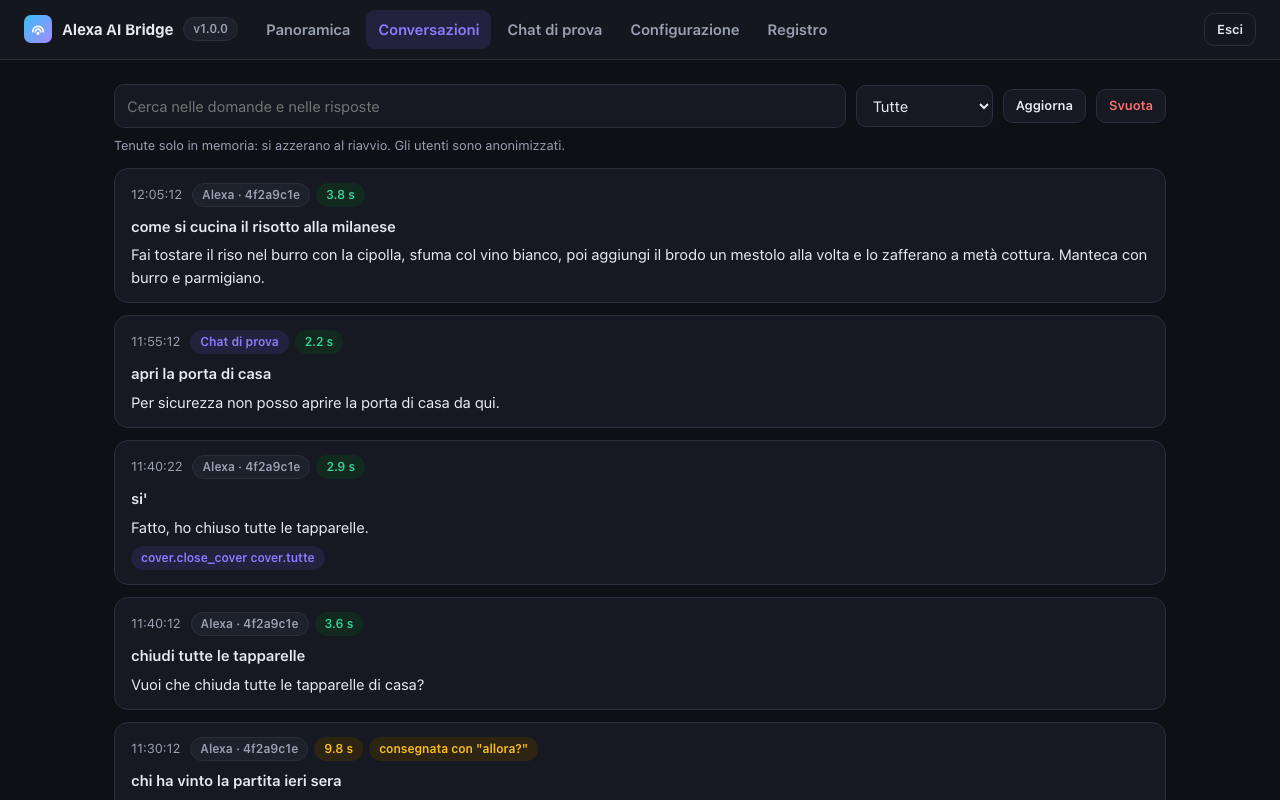
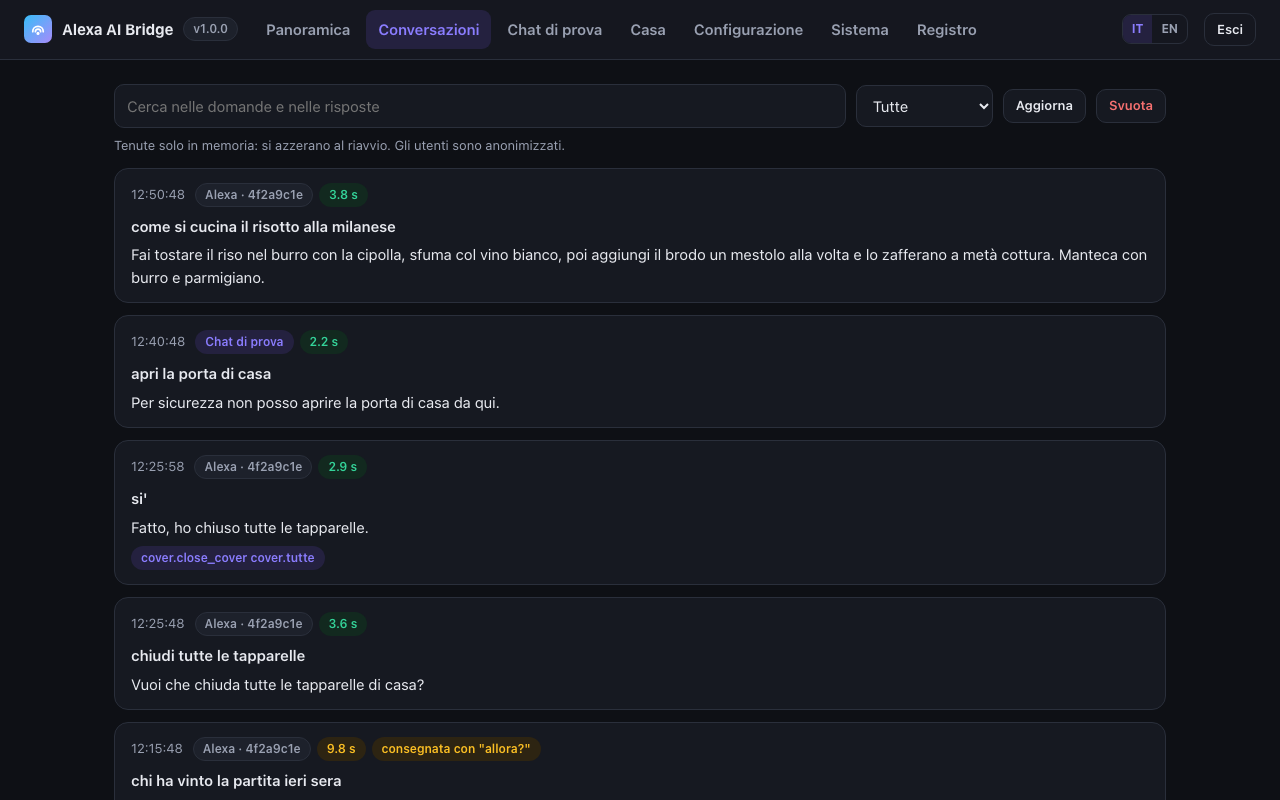
Document languages and the new admin tabs

diff --git a/README.md b/README.md
@@ -5,7 +5,7 @@
   <img alt="Python 3.11-3.15" src="https://img.shields.io/badge/python-3.11--3.15-38bdf8">
   <img alt="Docker" src="https://img.shields.io/badge/run%20with-Docker-38bdf8">
   <a href="https://github.com/LucaTomei/alexa-ai-bridge/actions/workflows/ci.yml"><img alt="CI" src="https://github.com/LucaTomei/alexa-ai-bridge/actions/workflows/ci.yml/badge.svg"></a>
-  <img alt="Alexa skill: it-IT" src="https://img.shields.io/badge/Alexa%20skill-it--IT-f0abfc">
+  <img alt="Alexa skill: it-IT and en-US" src="https://img.shields.io/badge/Alexa%20skill-it--IT%20%C2%B7%20en--US-f0abfc">
 </p>
 
 <p align="center">
@@ -33,8 +33,8 @@ can read and control your home through Home Assistant within strict limits that 
 > 🗣 *"Che tempo fa domani?"* — 🔊 *"Domani sole al mattino, nuvole dal pomeriggio e massima di 21 gradi."*<br>
 > 🗣 *"Accendi la luce dello stanzino."* — 🔊 *"Fatto."* — 🗣 *"Spegnila."* — 🔊 *"Spenta."*
 
-The skill in this repository speaks **Italian** (`it-IT`), but nothing in the design depends on the language: every
-spoken string and every sample utterance lives in two files you can translate.
+The assistant speaks **Italian or English** (`LANGUAGE=it` or `en`): both interaction models are included, and the
+admin page has an IT / EN switch too.
 
 ## Demo
 
@@ -70,9 +70,13 @@ These are real conversations in the Alexa developer console simulator, which sen
   - every request from Amazon is verified: signature, certificate chain, timestamp and skill ID;
   - locks, alarms, scripts and technical services can never be controlled;
   - multi-room actions need a spoken *yes*, and the **service** checks it, not the model.
-- 🖥 **Admin page**: status and one-click checks, conversation history, a test chat with simulated home actions,
-  and every setting editable from the browser. Off until you set a password; reachable from the server, your home
-  network or anywhere, as you choose ([details](docs/admin.md)).
+- 🖥 **Admin page**, in Italian or English:
+  - status and one-click checks, conversation history, a test chat with simulated home actions;
+  - the home's safety rules entity by entity: forbid a device or make it always ask for a spoken *yes*;
+  - every setting editable from the browser, checked before saving, applied with an automatic restart;
+  - the skill's endpoint and interaction models, update check, restart, password, backup;
+  - off until you set a password; reachable from the server, your home network or anywhere, as you choose
+    ([details](docs/admin.md)).
 
   <img src="docs/images/admin-overview.png" width="100%" alt="Admin page">
 - 🛟 **Degrades gracefully**: if a model has no tool support, rejects a parameter or returns its reasoning in
@@ -130,7 +134,8 @@ Full details: [docs/architecture.md](docs/architecture.md).
 
 1. **Create the skill** in the [Alexa developer console](https://developer.amazon.com/alexa/console/ask):
    - choose a *Custom* model with *Provision your own* hosting;
-   - paste [`skill/interaction-model.it-IT.json`](skill/interaction-model.it-IT.json) into the JSON editor;
+   - paste [`skill/interaction-model.it-IT.json`](skill/interaction-model.it-IT.json) (Italian) or
+     [`skill/interaction-model.en-US.json`](skill/interaction-model.en-US.json) (English) into the JSON editor;
    - click **Save**, then **Build**, and copy the **Skill ID**.
 2. **Run the service** on your host:
 
@@ -194,10 +199,12 @@ All fifteen, with their fixes, are in [docs/lessons-learned.md](docs/lessons-lea
 │   ├── llm.py              # Anthropic + OpenAI-compatible adapters, tool loop, graceful degradation
 │   ├── web_search.py       # native search (Claude) or SearXNG / Brave / Tavily (any model)
 │   ├── home_tools.py       # Home Assistant tools with allow-lists and server-side confirmation
-│   ├── admin.py · admin/   # admin page: status, history, test chat, settings, log
-│   └── impostazioni.py     # settings saved from the admin page
+│   ├── lingua.py           # every text of the assistant, in Italian and English
+│   ├── admin.py · admin/   # admin page: status, history, test chat, home rules, settings, system, log
+│   └── impostazioni.py     # settings saved from the admin page, validation
 ├── skill/
-│   └── interaction-model.it-IT.json   # paste into the Alexa console JSON editor
+│   ├── interaction-model.it-IT.json   # paste into the Alexa console JSON editor (Italian)
+│   └── interaction-model.en-US.json   # the same for English
 ├── deploy/                 # Caddyfile example, SearXNG settings
 ├── scripts/
 │   ├── e2e.py              # end-to-end check against a running deployment

diff --git a/docs/admin.md b/docs/admin.md
@@ -1,7 +1,8 @@
 # Admin page
 
 A web page to look after the bridge without a terminal: see whether everything works, read what was asked, try the
-assistant by text, and change the settings.
+assistant by text, decide which home devices it may control, change every setting and run the service. In Italian or
+English: the **IT / EN** switch is at the top of every page (the first time, it follows your browser's language).
 
 <p align="center"><img src="images/admin-overview.png" width="85%" alt="Admin page: overview"></p>
 
@@ -10,9 +11,15 @@ assistant by text, and change the settings.
 | **Panoramica** | Service, model, web search and Home Assistant at a glance; questions, average time, slow answers, errors and home actions since the last start; one-click checks of the model, the web search and Home Assistant. |
 | **Conversazioni** | The latest questions and answers with their time, the home actions they ran and any error. Searchable. Users are anonymised. |
 | **Chat di prova** | Talk to the assistant by text, with the same model, tools and rules as on the Echo. Home actions are **simulated** by default: every safety check runs, but nothing is sent to Home Assistant. |
-| **Configurazione** | Every setting with its explanation. Saving checks the new values, then restarts the service in a few seconds. Keys and tokens are never shown, only whether they are set. |
-| **Registro** | The latest log lines, with a filter for warnings and errors. |
+| **Casa** (*Home*) | Every Home Assistant entity the assistant could control, with what protects it: never controllable by type (locks, alarms, scripts), blocked by the built-in rules, or forbidden by you. One switch forbids an entity, another makes it always ask for a spoken *yes* (they edit `HA_VIETATO` and `HA_GRUPPI` for you). |
+| **Configurazione** (*Settings*) | Every setting with its explanation, including the assistant's language. Saving checks the new values, then restarts the service in a few seconds. Keys and tokens are never shown, only whether they are set. |
+| **Sistema** (*System*) | Skill ID and the endpoint to paste in the Alexa console, download of the interaction model in both languages, version and update check, restart, answers still waiting, the admin password, *log out everywhere*, settings backup (export and import), and the network settings that live in `.env`. |
+| **Registro** (*Log*) | The latest log lines, with a filter for warnings and errors. |
 
+<p align="center">
+  <img src="images/admin-home.png" width="49%" alt="Admin page: home safety rules">
+  <img src="images/admin-system.png" width="49%" alt="Admin page: system, in English">
+</p>
 <p align="center">
   <img src="images/admin-conversations.png" width="49%" alt="Admin page: conversations">
   <img src="images/admin-settings.png" width="49%" alt="Admin page: settings">
@@ -64,6 +71,18 @@ page on the internet.
   a stored key to another server.
 - Every value is checked before saving (type, length, characters, number ranges, allowed options) and then loaded
   with the startup checks in a separate process: nothing that would stop the service can be saved.
+
+## The password
+
+`ADMIN_PASSWORD` in `.env` turns the page on. You can then change the password from **Sistema**: the new one is
+stored as a scrypt hash in the data volume and replaces `ADMIN_PASSWORD` (which must stay set, or the page turns off).
+Changing it keeps you logged in and logs out every other session. *"Torna alla password del .env"* goes back.
+
+Forgot the password changed from the page? Remove it on the server and `ADMIN_PASSWORD` from `.env` works again:
+
+```bash
+docker compose exec alexa-ai-bridge rm /data/admin-password
+```
 
 ## Conversation history
 

diff --git a/docs/setup.md b/docs/setup.md
@@ -41,7 +41,7 @@ In the [Alexa developer console](https://developer.amazon.com/alexa/console/ask)
 | Field | Value |
 |---|---|
 | Name | anything (e.g. *Cervellone*) |
-| Primary locale | Italian (IT) |
+| Primary locale | Italian (IT), or English (US) for an English assistant |
 | Type of experience | Other |
 | Model | **Custom** |
 | Hosting | **Provision your own** |
@@ -50,7 +50,8 @@ In the [Alexa developer console](https://developer.amazon.com/alexa/console/ask)
 Then:
 
 1. **Build → Interaction Model → JSON Editor**: select everything, paste the content of
-   [`skill/interaction-model.it-IT.json`](../skill/interaction-model.it-IT.json), click **Save**.
+   [`skill/interaction-model.it-IT.json`](../skill/interaction-model.it-IT.json) (Italian) or
+   [`skill/interaction-model.en-US.json`](../skill/interaction-model.en-US.json) (English), click **Save**.
 2. Click **Build skill** and wait for *Build Successful* (a minute or two).
 3. Check **Intents**: you must see `AskIntent`, `AttesaIntent` and `FraseBreveIntent`. If you still see
    `HelloWorldIntent`, the JSON was not saved: paste it again and **Save** before building.
@@ -73,6 +74,7 @@ nano .env        # or any editor
 In `.env`, set at least:
 
 - `SKILL_ID`: the ID from step 1;
+- `LANGUAGE`: `it` or `en`, the language of the model you pasted;
 - **one model block**: `LLM_API`, `LLM_BASE_URL`, `LLM_API_KEY`, `LLM_MODEL`. Claude is active by default; to use
   another provider, comment out the Claude lines and uncomment another block ([all presets](providers.md));
 - `PUBLIC_HOST`: your DNS name, if you will use the bundled Caddy in step 3;
@@ -226,8 +228,8 @@ home checks are skipped. It ends with `RESULT: ALL OK` (exit code 0) when every 
 
 Set `ADMIN_PASSWORD` in `.env` (12 characters or more) and `docker compose up -d`: the page is at
 `http://127.0.0.1:8090/admin` on the server. From there you can check every part, read the conversations, try the
-assistant by text and change the settings without touching `.env`. To open it from your home network or from
-anywhere, see [admin.md](admin.md#turn-it-on).
+assistant by text, choose which devices it may control and change the settings without touching `.env`. To open it
+from your home network or from anywhere, see [admin.md](admin.md#turn-it-on).
 
 ## Updating
 

diff --git a/docs/alexa-skill.md b/docs/alexa-skill.md
@@ -1,7 +1,15 @@
 # The Alexa skill
 
-The whole interaction model is in [`skill/interaction-model.it-IT.json`](../skill/interaction-model.it-IT.json).
-Paste it into **Build → Interaction Model → JSON Editor**, then **Save** and **Build skill**.
+The skill comes in two languages; use the one that matches `LANGUAGE` in `.env`:
+
+| `LANGUAGE` | Skill locale | Interaction model | Invocation |
+|---|---|---|---|
+| `it` | Italian (IT) | [`skill/interaction-model.it-IT.json`](../skill/interaction-model.it-IT.json) | *"Alexa, apri cervellone"* |
+| `en` | English (US), or any English locale | [`skill/interaction-model.en-US.json`](../skill/interaction-model.en-US.json) | *"Alexa, open big brain"* |
+
+Paste it into **Build → Interaction Model → JSON Editor**, then **Save** and **Build skill**. The admin page offers
+both files for download (**Sistema**). For English locales other than US (UK, Canada, Australia, India), add the
+locale in the console and paste the same English model.
 
 ## Intents
 
@@ -55,7 +63,7 @@ was just turned on.
   [lessons learned](lessons-learned.md)).
 - If the **JSON Input** panel is empty, Alexa did not match the skill at all: invocation name or build.
 
-## Translating the skill
+## Translating the skill to another language
 
 1. Copy the interaction model to your locale and translate invocation name, carrier phrases, short phrases and
    the Attesa/Stop samples.

diff --git a/CHANGELOG.md b/CHANGELOG.md
@@ -28,9 +28,13 @@ First release with a prebuilt Docker image for amd64 and arm64: `ghcr.io/lucatom
 
 ### Added
 
+- **Italian or English** everywhere: `LANGUAGE=it|en` for the assistant (spoken texts, instructions, tools, home
+  summary), an English interaction model (`skill/interaction-model.en-US.json`), and an IT / EN switch on the admin page.
 - **Admin page** (`/admin`, off until `ADMIN_PASSWORD` is set): status and checks, conversation history, a test chat
-  with simulated home actions, settings editable from the browser with validation and automatic restart, log.
-  Reachable from the server, the home network (`BRIDGE_BIND`) or anywhere (`ADMIN_PUBLIC`).
+  with simulated home actions, the home's safety rules entity by entity, settings editable from the browser with
+  validation and automatic restart, system actions (skill endpoint and interaction models, update check, restart,
+  password, log out everywhere, backup), log. Reachable from the server, the home network (`BRIDGE_BIND`) or anywhere
+  (`ADMIN_PUBLIC`).
 - Bundled Caddy for HTTPS: `docker compose --profile caddy up -d`.
 - One retry on rate limits and temporary errors (429, 5xx, 529); provider errors are logged with their message.
 - Clear startup messages for missing or invalid settings.
